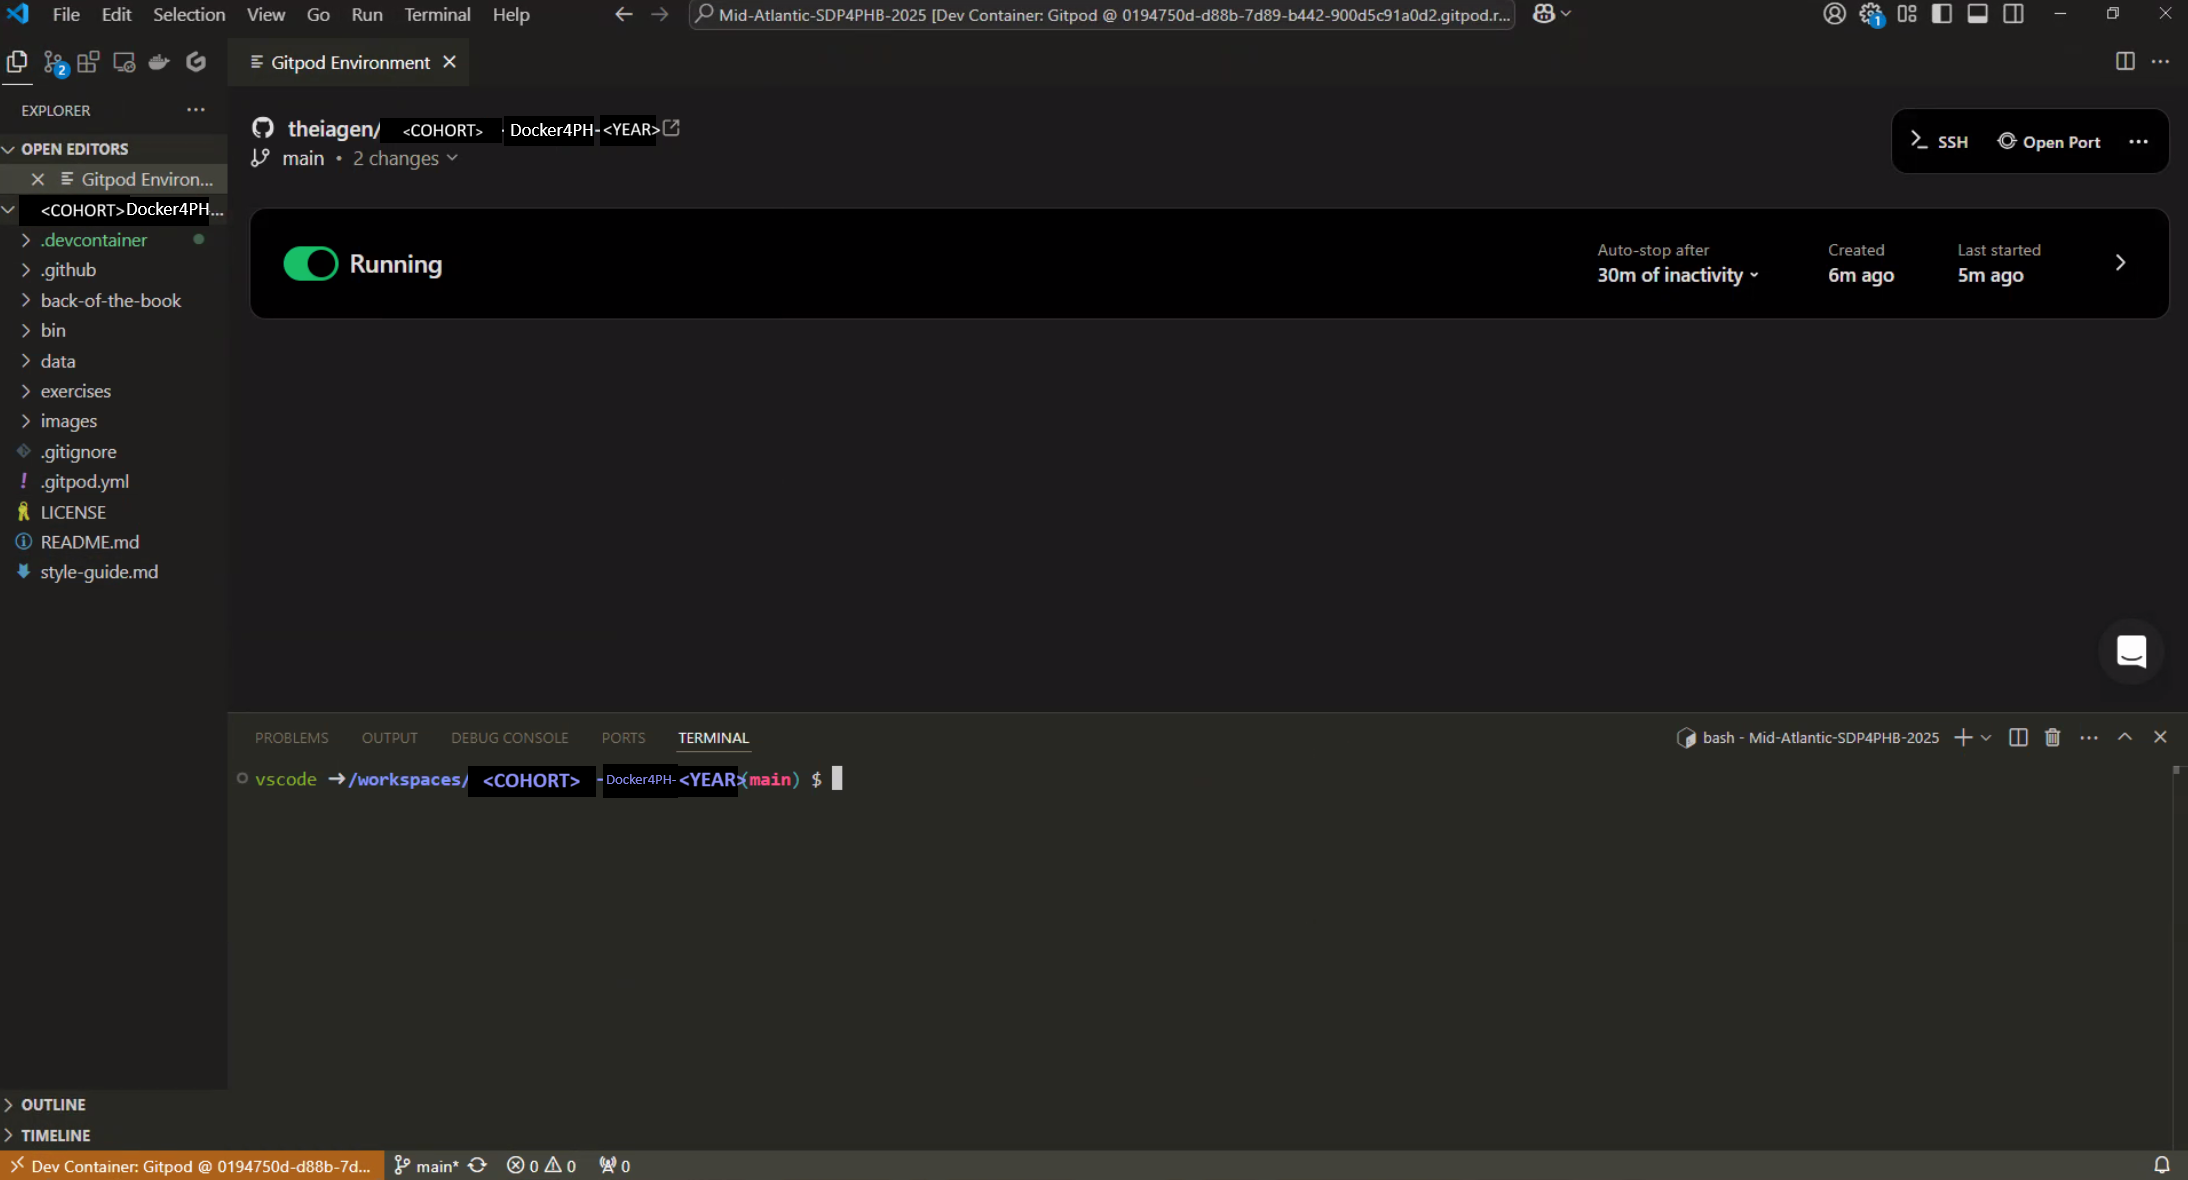
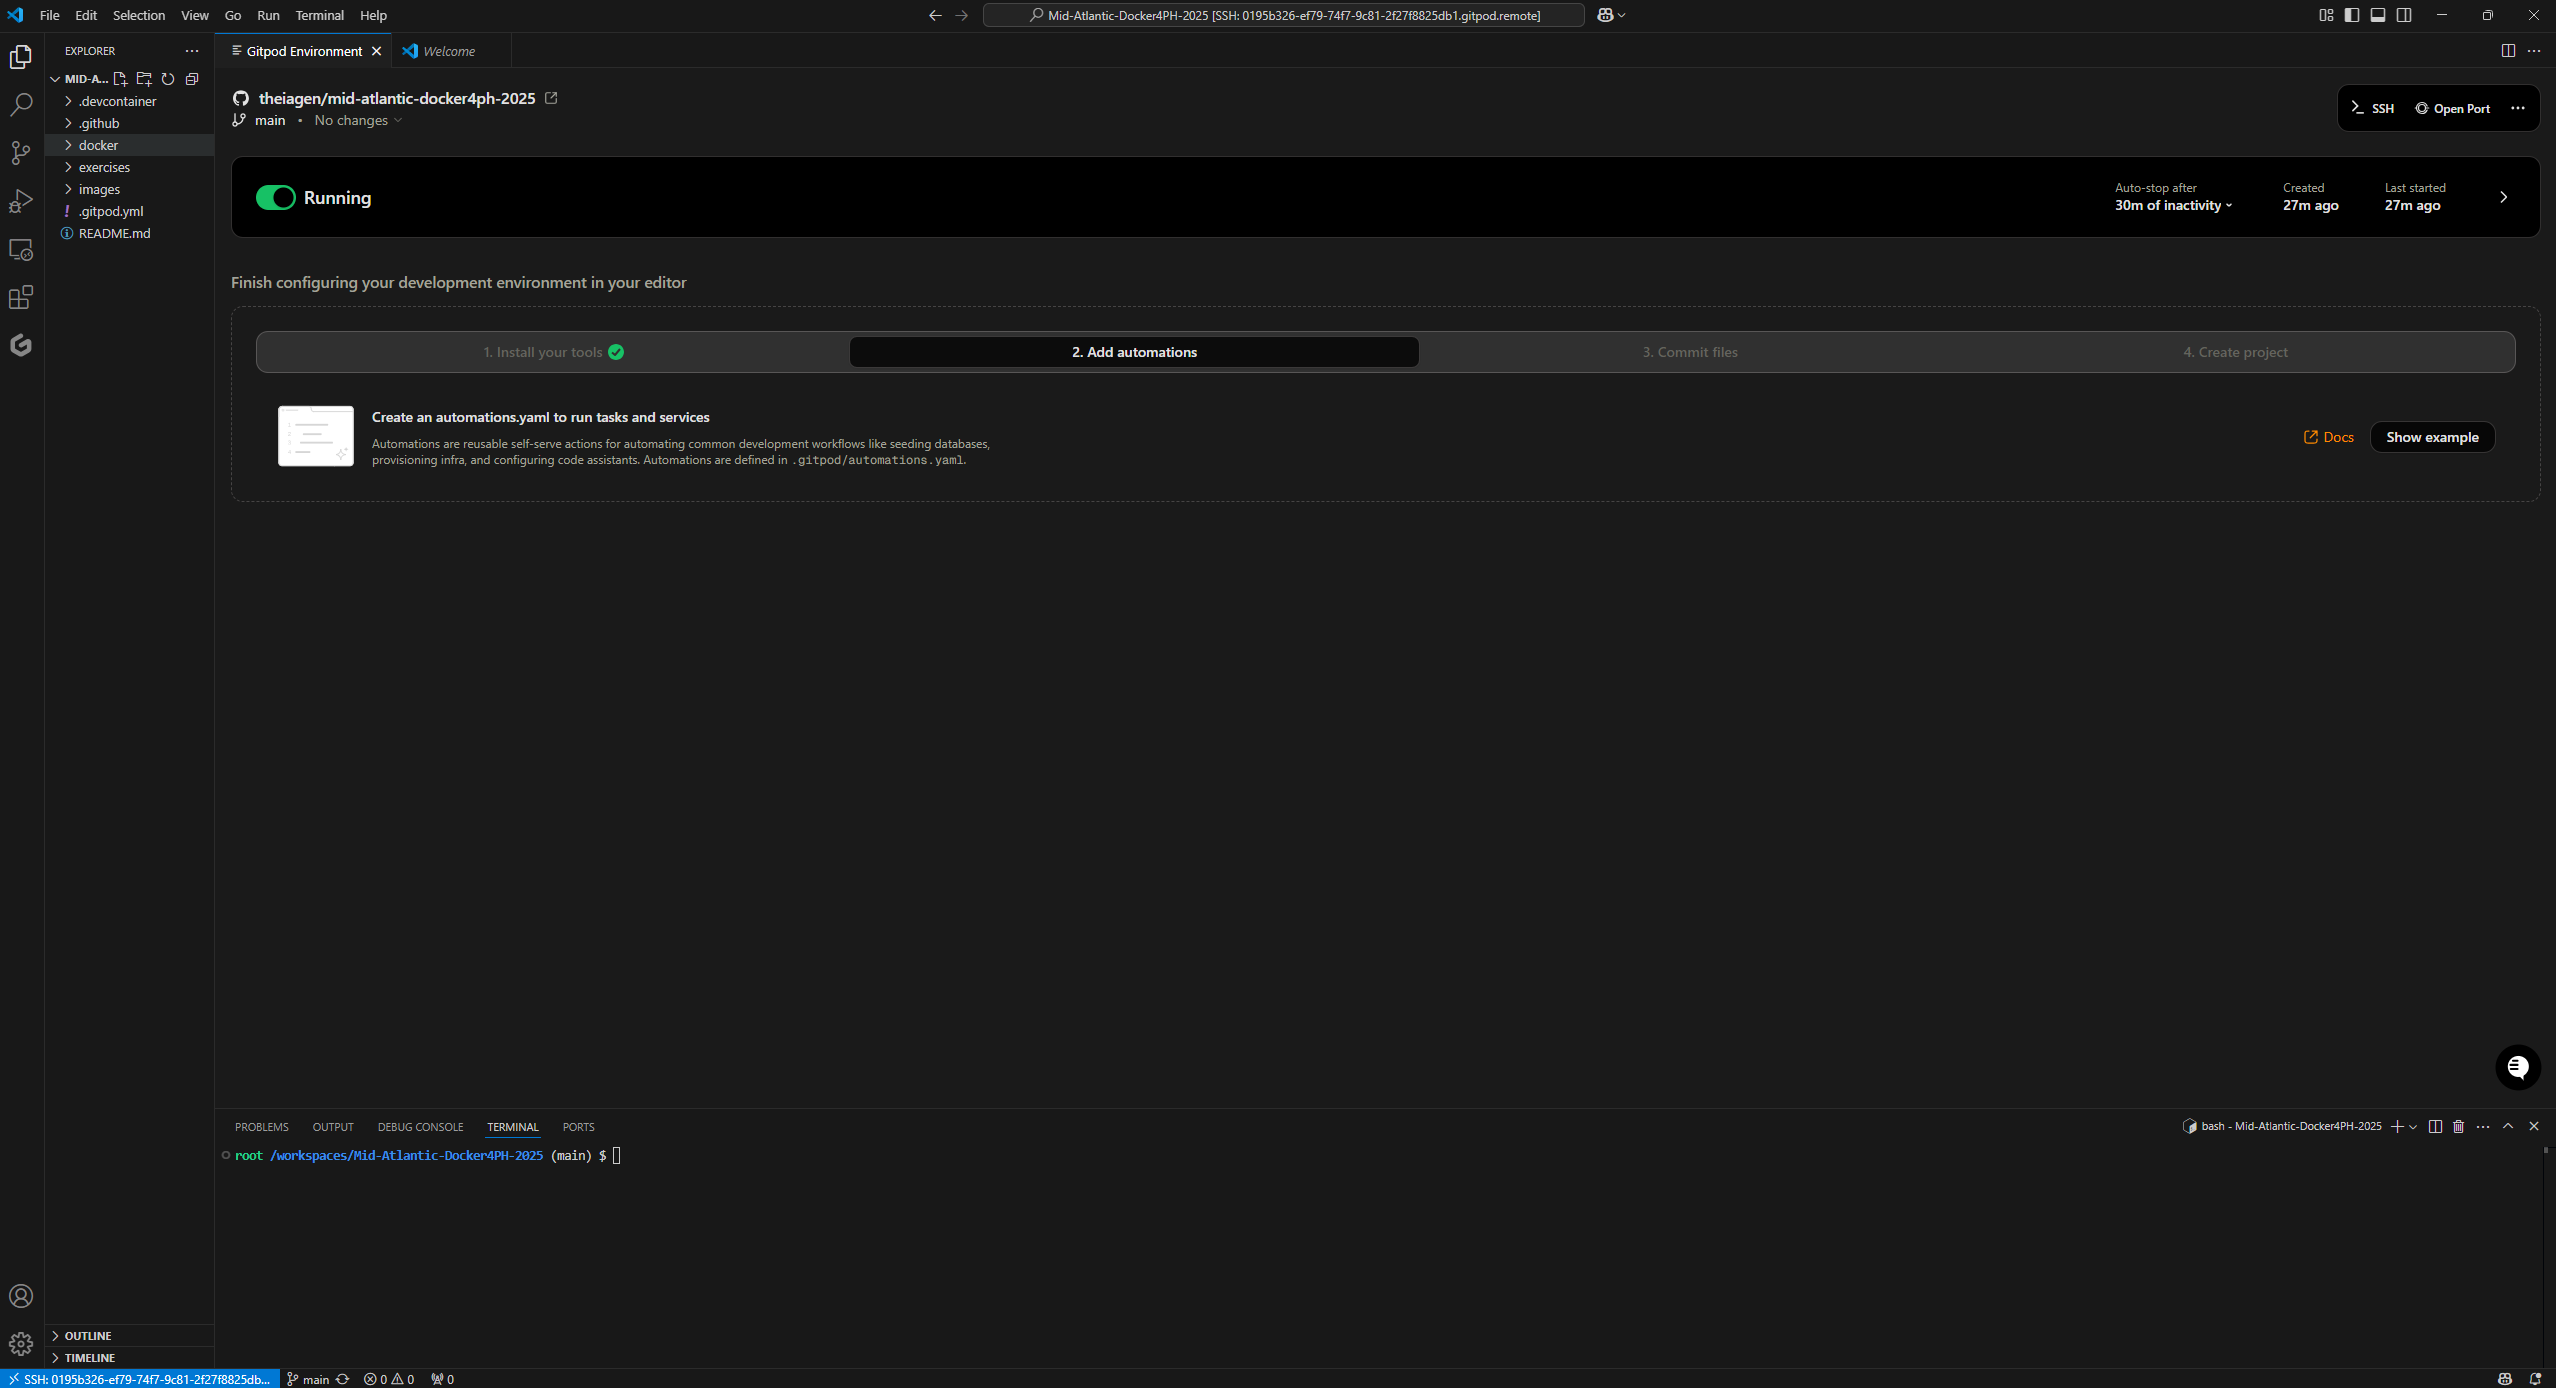
update README

diff --git a/README.md b/README.md
@@ -89,7 +89,7 @@ Once registered and part of this course's organization, navigate to the **Create
   <img src="./images/rm_gitpodflex_02.png" width="400" class="center">
 </p>
 
-  - Create a new environment and connect with the course's repository `<CHANGE>`.
+  - Create a new environment and connect with the course's repository `https://github.com/theiagen/Mid-Atlantic-Docker4PH-2025`.
 
 <p align="center">
   <img src="./images/rm_gitpodflex_03.png" width="400" class="center">
